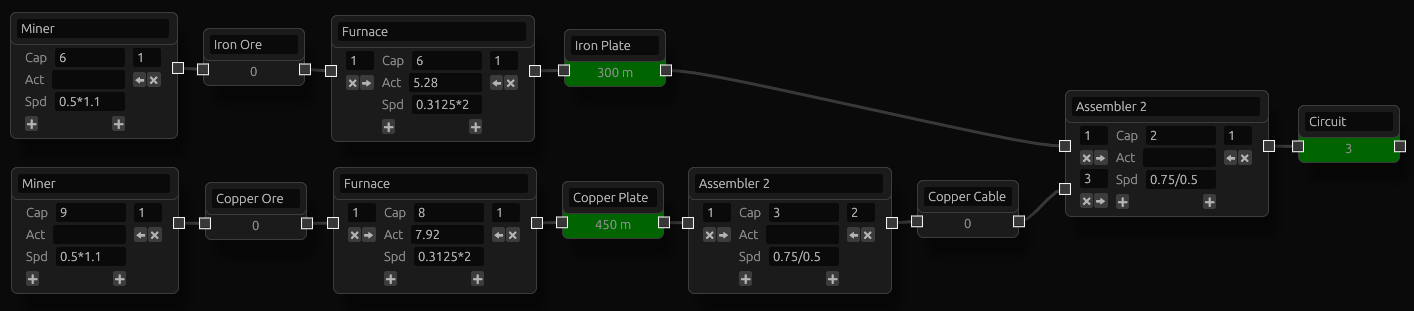
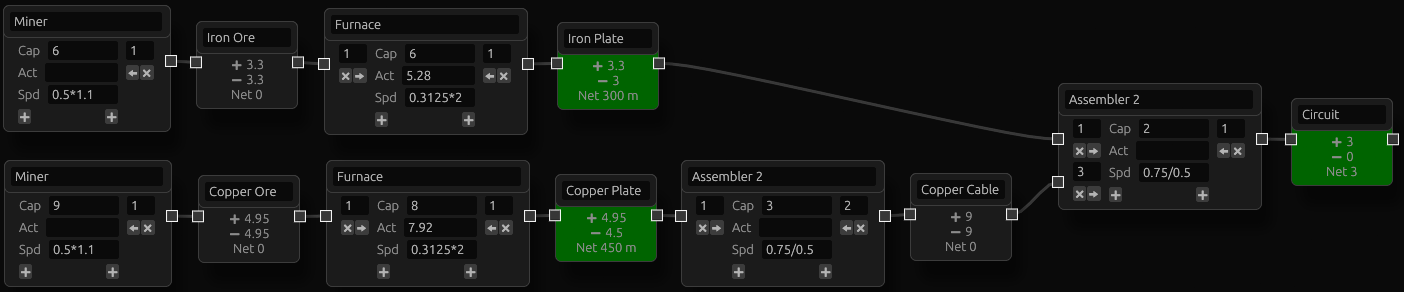
display not just the net rate

diff --git a/src/main.rs b/src/main.rs
@@ -40,8 +40,15 @@ struct ChartStats {
 }
 
 enum NodeStats {
-    Resource(/** rate */ f64),
+    Resource(ResourceStats),
     Process(/** valid */ bool),
+}
+
+#[derive(Default, Clone, Copy)]
+struct ResourceStats {
+    inc: f64,
+    dec: f64,
+    net: f64,
 }
 
 impl ProcessMeta {
@@ -59,7 +66,6 @@ impl ChartStats {
         let mut this = Self { nodes: HashMap::new() };
         for (node, meta) in chart.node_ids() {
             let NodeMeta::Process(meta) = &meta else { continue };
-            let mut adjs = Vec::with_capacity(meta.consumes.len() + meta.produces.len());
             let mut valid = false;
             if let Some(rate) = meta.common_rate() {
                 valid = true;
@@ -72,7 +78,10 @@ impl ChartStats {
                         valid = false;
                         continue;
                     };
-                    adjs.push((adj.node, -rate * qty));
+                    let rate = rate * qty;
+                    let stats = this.resource_mut(adj.node);
+                    stats.dec += rate;
+                    stats.net -= rate;
                 }
                 for (output, qty) in meta.produces.iter().enumerate() {
                     let Ok([adj]) = <[InPinId; 1]>::try_from(chart.out_pin(OutPinId { node, output }).remotes) else {
@@ -83,19 +92,26 @@ impl ChartStats {
                         valid = false;
                         continue;
                     };
-                    adjs.push((adj.node, rate * qty));
+                    let rate = rate * qty;
+                    let stats = this.resource_mut(adj.node);
+                    stats.inc += rate;
+                    stats.net += rate;
                 }
             }
             this.nodes.insert(node, NodeStats::Process(valid));
-            for (node, rate) in adjs {
-                let NodeStats::Resource(total) = this.nodes.entry(node).or_insert_with(|| NodeStats::Resource(0.)) else { unreachable!() };
-                *total += rate;
-            }
         }
         this
     }
 
-    fn resource_rate(&self, node: NodeId) -> f64 { if let Some(NodeStats::Resource(rate)) = self.nodes.get(&node) { *rate } else { 0. } }
+    fn resource_mut(&mut self, node: NodeId) -> &mut ResourceStats {
+        let stats = self.nodes.entry(node).or_insert_with(|| NodeStats::Resource(<_>::default()));
+        let NodeStats::Resource(stats) = stats else { unreachable!() };
+        stats
+    }
+
+    fn resource(&self, node: NodeId) -> ResourceStats {
+        if let Some(NodeStats::Resource(stats)) = self.nodes.get(&node) { *stats } else { <_>::default() }
+    }
 }
 
 fn resource_rate_excl_process(chart: &Snarl<NodeMeta>, r: NodeId, p: NodeId) -> f64 {
@@ -204,10 +220,10 @@ impl SnarlViewer<NodeMeta> for ChartViewer {
         let Some(stats) = self.stats.nodes.get(&node) else { return frame };
         match stats {
             NodeStats::Process(valid) => _ = (!valid).then(|| frame.fill = Color32::DARK_RED),
-            NodeStats::Resource(rate) => {
-                if *rate < -THRESHOLD {
+            NodeStats::Resource(stats) => {
+                if stats.net < -THRESHOLD {
                     frame.fill = Color32::from_rgb(160, 80, 0);
-                } else if *rate > THRESHOLD {
+                } else if stats.net > THRESHOLD {
                     frame.fill = Color32::DARK_GREEN;
                 }
             }
@@ -220,12 +236,11 @@ impl SnarlViewer<NodeMeta> for ChartViewer {
         match &mut chart[node] {
             NodeMeta::Resource(_) => {
                 ui.set_width(72.);
-                let rate = match self.stats.resource_rate(node) {
-                    0. => "0".to_owned(),
-                    x if x.abs() < THRESHOLD => "≈0".to_owned(),
-                    x => format_float(x),
-                };
-                ui.vertical_centered(|ui| ui.label(rate));
+                let stats = self.stats.resource(node);
+                let inc = format_float(stats.inc, THRESHOLD);
+                let dec = format_float(stats.dec, THRESHOLD);
+                let net = format_float(stats.net, THRESHOLD);
+                ui.vertical_centered(|ui| ui.label(format!("➕ {inc}\n➖ {dec}\nNet {net}")));
             }
             NodeMeta::Process(meta) => {
                 ui.set_width(100.);

diff --git a/src/format.rs b/src/format.rs
@@ -50,7 +50,13 @@ fn approx_decimal(mut value: f64) -> (u64, i32) {
     ((value + 0.5) as u64, scale)
 }
 
-pub fn format_float(float: f64) -> String {
-    let (value, scale) = approx_decimal(float.abs());
-    format_decimal(value, scale, float < 0.)
+pub fn format_float(float: f64, threshold: f64) -> String {
+    match float {
+        0. => "0".to_owned(),
+        x if x.abs() < threshold => "≈0".to_owned(),
+        x => {
+            let (value, scale) = approx_decimal(x.abs());
+            format_decimal(value, scale, x < 0.)
+        }
+    }
 }

diff --git a/README.md b/README.md
@@ -4,12 +4,12 @@ This is a simple tool for equalizing resource production rate and consumption ra
 
 ![Example](images/example.png)
 
-You create a graph of processes (e.g. miners, furnaces, assemblers) and resources (e.g. iron, copper, cables, circuits). The tool calculates the total rate (production rate minus consumption rate) of each resource. A positive total rate (marked green) means it is produced faster than being consumed; a negative total rate (marked brown) means it is consumed faster than being produced. Ideally, all intermediate resources should have zero total rate, meaning production and consumption match.
+You create a graph of processes (e.g. miners, furnaces, assemblers) and resources (e.g. iron, copper, cables, circuits). The tool calculates the net rate (production rate minus consumption rate) of each resource. A positive net rate (marked green) means it is produced faster than being consumed; a negative net rate (marked brown) means it is consumed faster than being produced. Ideally, all intermediate resources should have zero net rate, meaning production and consumption match.
 
 Each process has 3 main parameters:
 - **Capacity** (Cap): total number of this machine you have placed.
-- **Activity** (Act): how many of this machine is actually running.\
-  You can click the arrow button at each input/output to automatically set this number so that the connected resource would end up with zero total rate.
+- **Activity** (Act): how many of this machine is actually running (optional).\
+  You can click the arrow button at each input/output to automatically set this number so that the connected resource would end up with zero net rate.
 - **Speed** (Spd)
 
 You can enter simple math expressions in every field that accepts numbers. e.g. if a recipe takes 6 seconds, speed can be entered as `1/6`.
